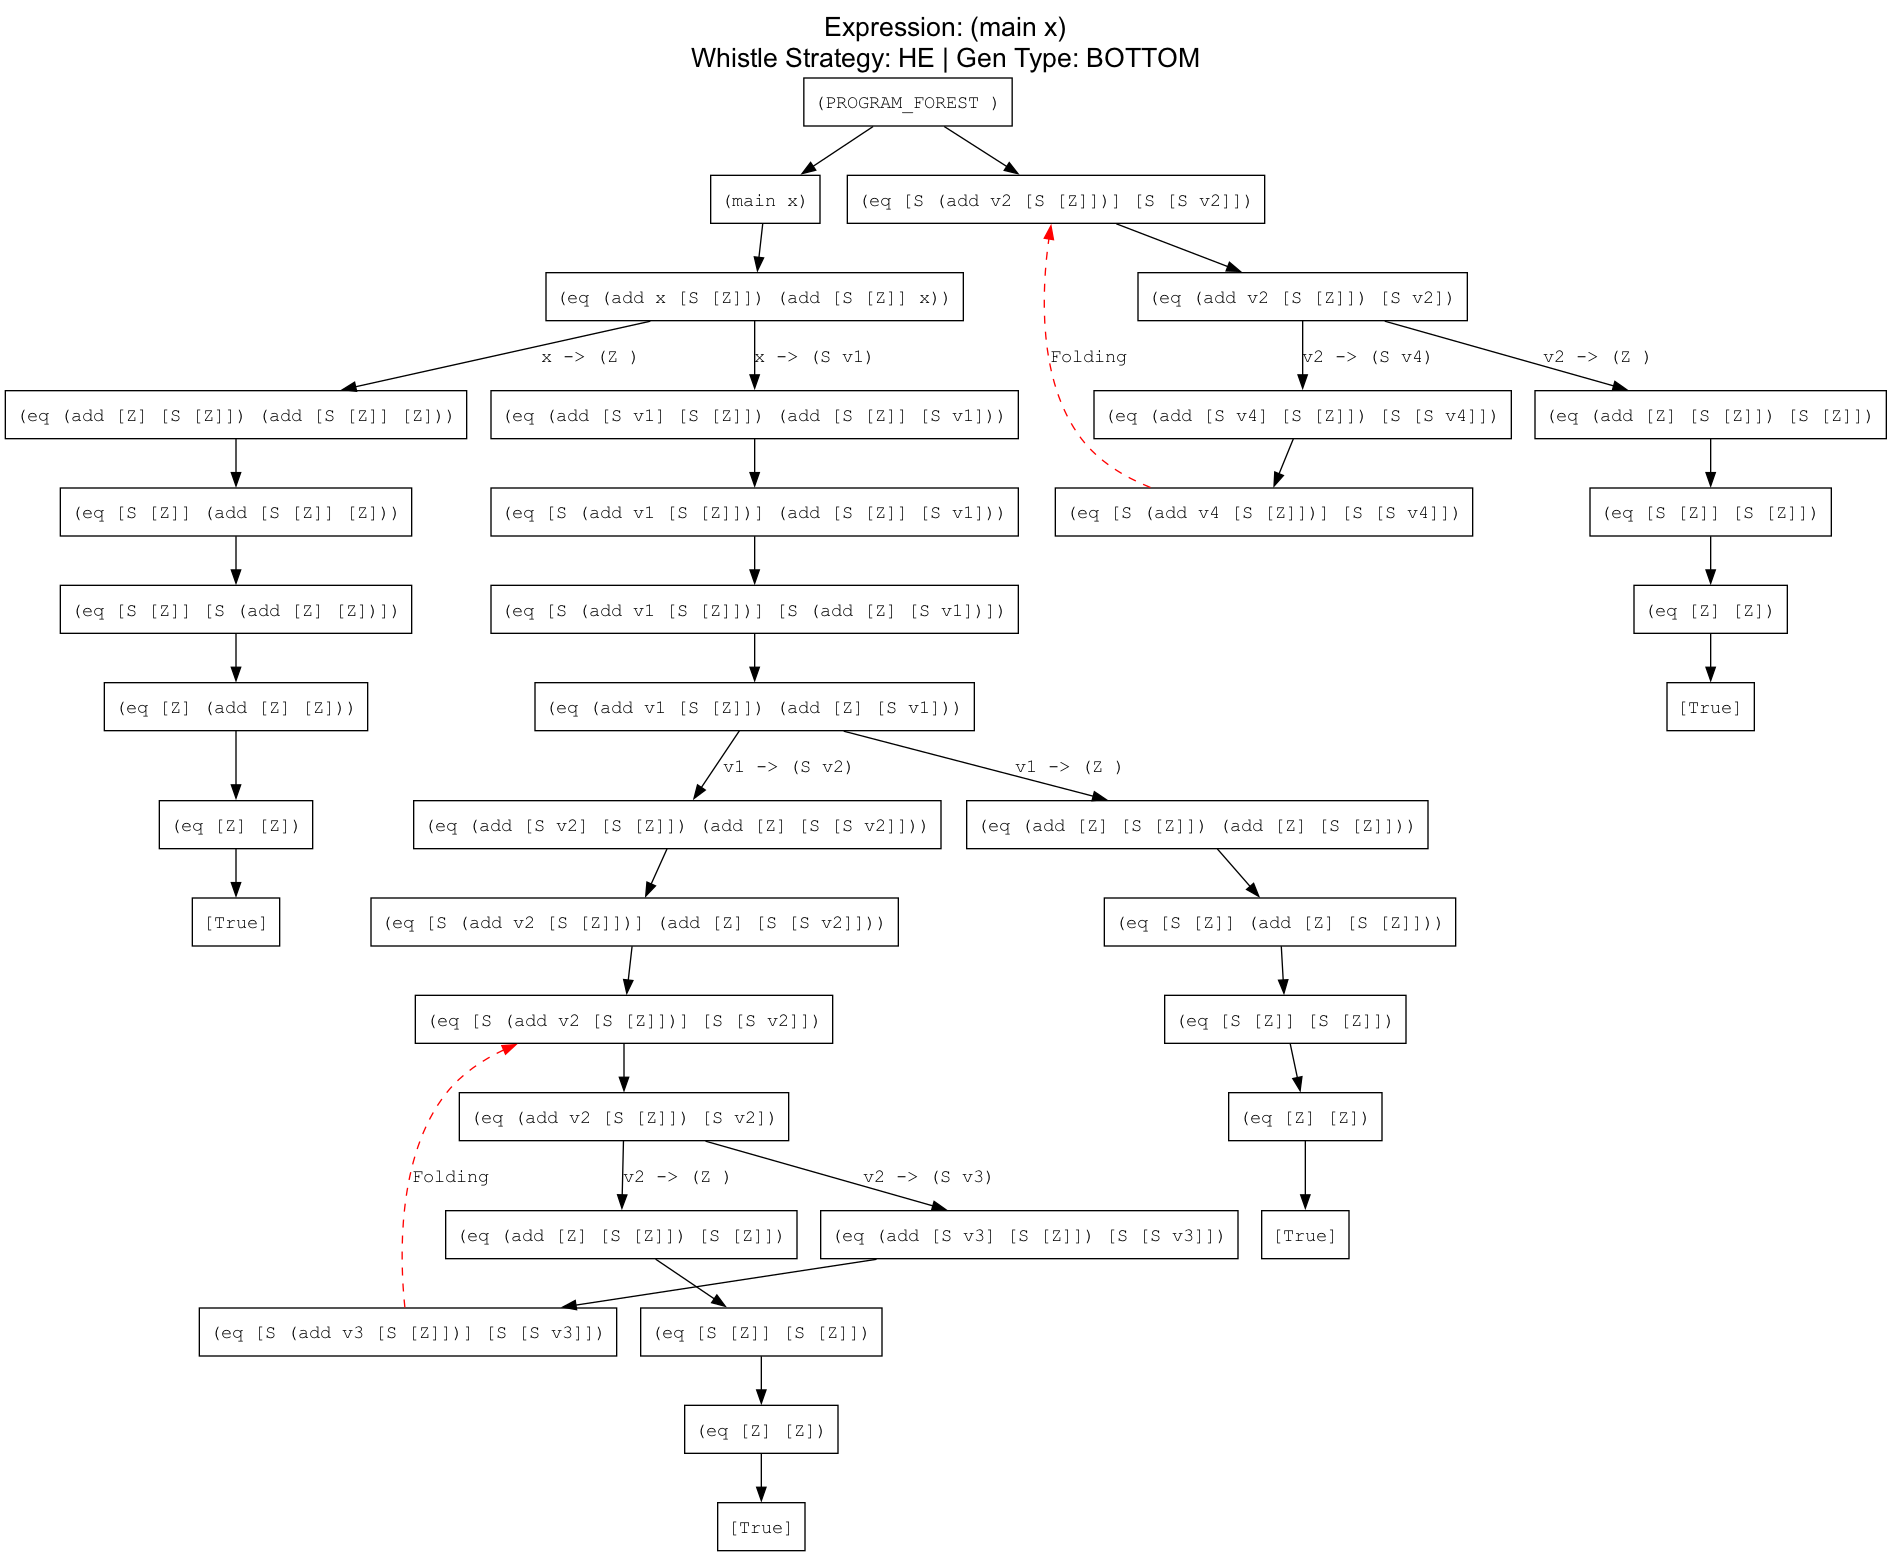
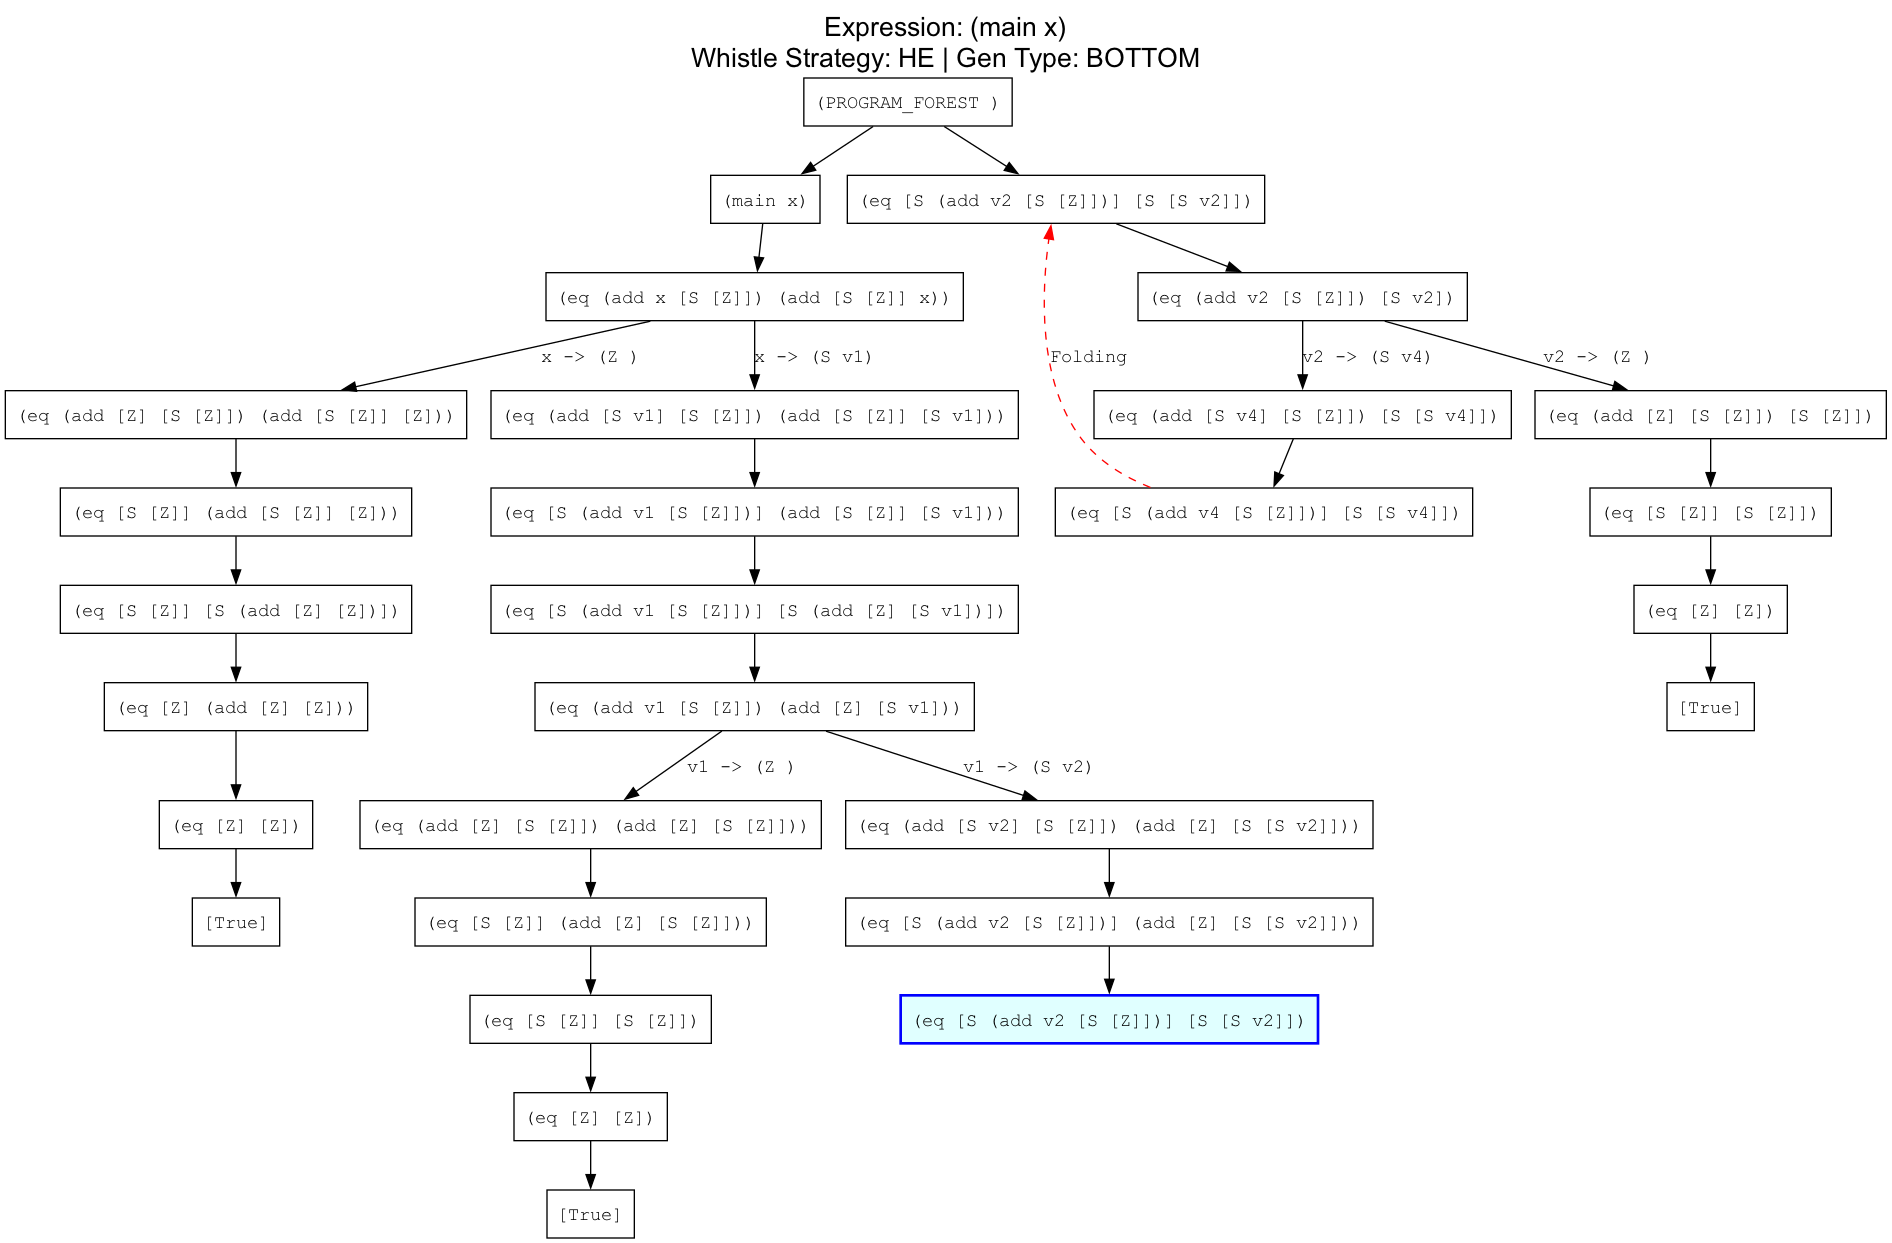
Корректировка отображения перестройки снизу

diff --git a/sll/supercompiler.py b/sll/supercompiler.py
@@ -298,6 +298,8 @@ class Supercompiler:
             self._prune_node_recursive(root_node)
 
     def _prune_node_recursive(self, node: Node):
+        if node.back_link:
+            return
         global_root = self._find_global_root(node)
 
         if global_root:
